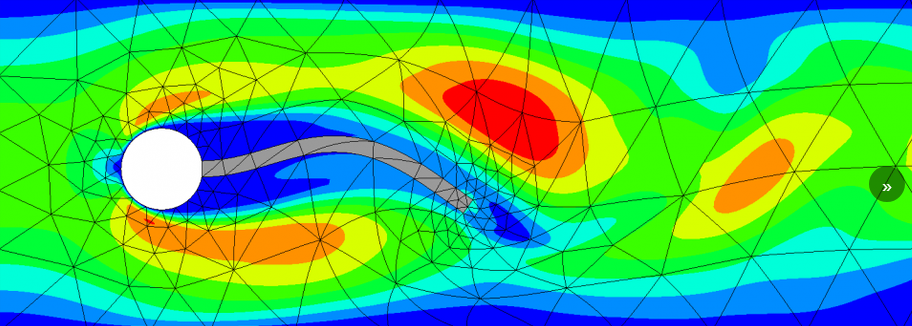
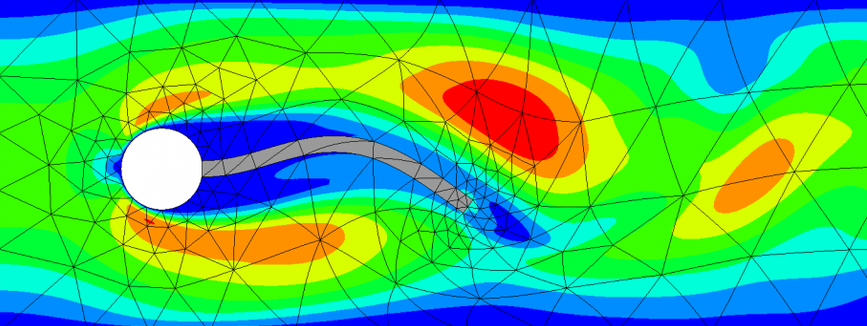
update

diff --git a/_layout/page_foot.html b/_layout/page_foot.html
@@ -6,3 +6,13 @@
     }
   });
 </script>
+<script defer src="https://cdnjs.cloudflare.com/ajax/libs/KaTeX/0.16.9/katex.min.js"></script>
+<script defer src="https://cdnjs.cloudflare.com/ajax/libs/KaTeX/0.16.9/contrib/auto-render.min.js"
+    onload="renderMathInElement(document.body, {
+        delimiters: [
+            {left: '$$', right: '$$', display: true},
+            {left: '\\[', right: '\\]', display: true},
+            {left: '$', right: '$', display: false},
+            {left: '\\(', right: '\\)', display: false}
+        ]
+    });"></script>

diff --git a/_layout/head.html b/_layout/head.html
@@ -8,6 +8,7 @@
   <link rel="stylesheet" href="/css/basic.css">
   <link rel="stylesheet" href="https://cdnjs.cloudflare.com/ajax/libs/font-awesome/6.5.2/css/all.min.css">
   <link rel="icon" href="/assets/favicon.png">
+  <link rel="stylesheet" href="https://cdnjs.cloudflare.com/ajax/libs/KaTeX/0.16.9/katex.min.css">
 </head>
 <body>
 <!--

diff --git a/numerico/clase_1.md b/numerico/clase_1.md
@@ -4,6 +4,164 @@
 
 # Clase 1
 
-_(Completá acá el contenido de la clase 1: teoría, ejercicios, diapositivas, etc.)_
+## Discretización de derivadas
+
+Una forma natural de aproximar la derivada de una función $u$ en un punto $x$ es a partir de su definición como límite, reemplazando el límite por un cociente incremental con un paso $h$ finito. Según qué puntos se usen, se obtienen distintas discretizaciones:
+
+- **Diferencias hacia adelante (forward):** $u'(x) \approx \frac{u(x+h)-u(x)}{h}$
+- **Diferencias hacia atrás (backward):** $u'(x) \approx \frac{u(x)-u(x-h)}{h}$
+- **Diferencias centradas:** $u'(x) \approx \frac{u(x+h)-u(x-h)}{2h}$
+
+Estas tres opciones se pueden implementar en una única función, seleccionando el método por un argumento:
+
+```julia
+function derivada(u,x;method="forward",h=0.01)
+    if method == "forward"
+        return (u(x+h)-u(x))/h
+    elseif method == "backward"
+        return (u(x)-u(x+h))/h
+    elseif method == "centradas"
+        return (u(x+h)-u(x-h))/(2h)
+    end
+end
+
+function u(x)
+    return sin(x)
+end
+
+function ∇u(x)
+    return cos(x)
+end
+```
+
+Tomando $u(x) = \sin(x)$, cuya derivada exacta es $\cos(x)$, podemos comparar la aproximación numérica de $u'(1)$ contra el valor exacto para distintos tamaños de paso $h$, y así estimar el **orden de convergencia** de cada método: el exponente $p$ tal que el error se comporta como $\mathcal{O}(h^p)$.
+
+```julia
+function orden(u,∇u,x;method="forward")
+    h=[0.1,0.01,0.001,0.0001]
+    error = zeros(length(h))
+    for i=1:length(h)
+        error[i]=∇u(x)-derivada(u,x,h=h[i],method=method)
+    end
+    println("orden: ",polyfit(log.(h),log.(error),1)[1])
+    plot(log.(h),log.(error))
+end
+```
+
+**Método forward:**
+
+```julia
+orden(u,∇u,1)
+```
+
+```plaintext
+orden: 1.0027318905612974
+```
+
+~~~
+<img src="/assets/numerico/clase_1/orden_forward.svg" alt="Orden de convergencia - diferencias forward" class="cover-img">
+~~~
+
+Como se ve, las diferencias forward (y backward) tienen **orden 1**: el error decrece linealmente con $h$.
+
+**Método de diferencias centradas:**
+
+```julia
+orden(u,∇u,1,method="centradas")
+```
+
+```plaintext
+orden: 1.9999453615526088
+```
+
+~~~
+<img src="/assets/numerico/clase_1/orden_centradas.svg" alt="Orden de convergencia - diferencias centradas" class="cover-img">
+~~~
+
+Las diferencias centradas, en cambio, alcanzan **orden 2**: para el mismo $h$, el error es sensiblemente menor. Esto se debe a que el término de orden $h$ en el desarrollo de Taylor se cancela al combinar $u(x+h)$ y $u(x-h)$ simétricamente.
+
+## Problemas de valores de contorno: capa límite
+
+Consideremos la ecuación
+
+$$ \varepsilon u_{xx} - u_x = f, \qquad u(0) = \alpha, \quad u(1) = \beta. $$
+
+Para el caso $f(x) = 1$, la solución exacta está dada por
+
+$$ u_\varepsilon(x) = \alpha + x + (\beta - \alpha - 1) \left( \frac{e^{x/\varepsilon}-1}{e^{1/\varepsilon}-1} \right). $$
+
+> **Nota:** una ecuación de esta forma aparece, por ejemplo, al considerar el estado estacionario ($u_t = 0$) de un problema de convección-difusión $u_t = \kappa u_{xx} + a u_x + \phi$, con difusividad $\kappa > 0$ y convección $a \in \mathbb{R}$. A la proporción $Pe = a/\kappa$ se la conoce como **número de Péclet**, y se toma $\varepsilon = 1/Pe$.
+
+```julia
+function u_ε(x,ε;α=1,β=3)
+    y=α+x+(β-α-1)*((ℯ^(x/ε)-1)/(ℯ^(1/ε)-1))
+    return y
+end
+```
+
+Graficando la solución exacta para $\alpha=1$, $\beta=3$ a medida que $\varepsilon \to 0$:
+
+```julia
+x=0:0.01:1
+
+plot(x,u_ε.(x,0.3),label="epsilon=0.3")
+plot!(x,u_ε.(x,0.1),label="epsilon=0.1")
+plot!(x,u_ε.(x,0.05),label="epsilon=0.05")
+plot!(x,u_ε.(x,0.01),label="epsilon=0.01")
+```
+
+~~~
+<img src="/assets/numerico/clase_1/capa_limite_epsilon.svg" alt="Solución exacta para distintos epsilon" class="cover-img">
+~~~
+
+A medida que $\varepsilon$ disminuye, la solución desarrolla una transición cada vez más abrupta cerca del borde $x=1$: es la **capa límite**, una región angosta donde la solución cambia muy rápido mientras que en el resto del dominio se mantiene casi constante.
+
+### Resolución numérica
+
+Discretizando con diferencias centradas tanto la derivada primera como la segunda, sobre una malla de tamaño $h$, se obtiene un sistema lineal tridiagonal para los valores interiores de $u$:
+
+```julia
+function capa_limite(f,N;ε=0.3,α=1,β=3)
+
+    h=1/N
+    x=0:h:1
+    n=length(x)
+    U=zeros(n)
+    U[1]=α
+    U[n]=β
+    A1=(ε/h^2)*Tridiagonal(ones(n-3),-2*ones(n-2),ones(n-3))
+    A2=(1/2h)*Tridiagonal(-ones(n-3),zeros(n-2),ones(n-3))
+    F=f.(x)[2:n-1]
+    F[1]=F[1]-ε*α/h^2+α/2h
+    F[end]=F[end]-ε*β/h^2-β/2h
+
+    A=A1-A2
+    sol=A\F
+    U[2:n-1]=sol
+    return U
+end
+
+function f(x)
+    return -1.0
+end
+```
+
+Comparando la solución numérica con la solución exacta para $\varepsilon = 0.1$ y $N=100$:
+
+```julia
+ε=0.1
+N=100
+x=0:1/N:1
+U=capa_limite(f,N,ε=ε)
+plot(x,U,label="solucion numerica")
+plot!(x,u_ε.(x,ε),label="solucion exacta")
+```
+
+~~~
+<img src="/assets/numerico/clase_1/capa_limite_solucion.svg" alt="Solución numérica vs exacta" class="cover-img">
+~~~
+
+La aproximación numérica reproduce bien tanto la zona suave como la capa límite cerca de $x=1$, siempre que la malla sea suficientemente fina en relación a $\varepsilon$ (si $h \gg 2\varepsilon$, el esquema deja de resolver correctamente la capa límite y aparecen oscilaciones espurias).
+
 
 [← Volver](/numerico/)
